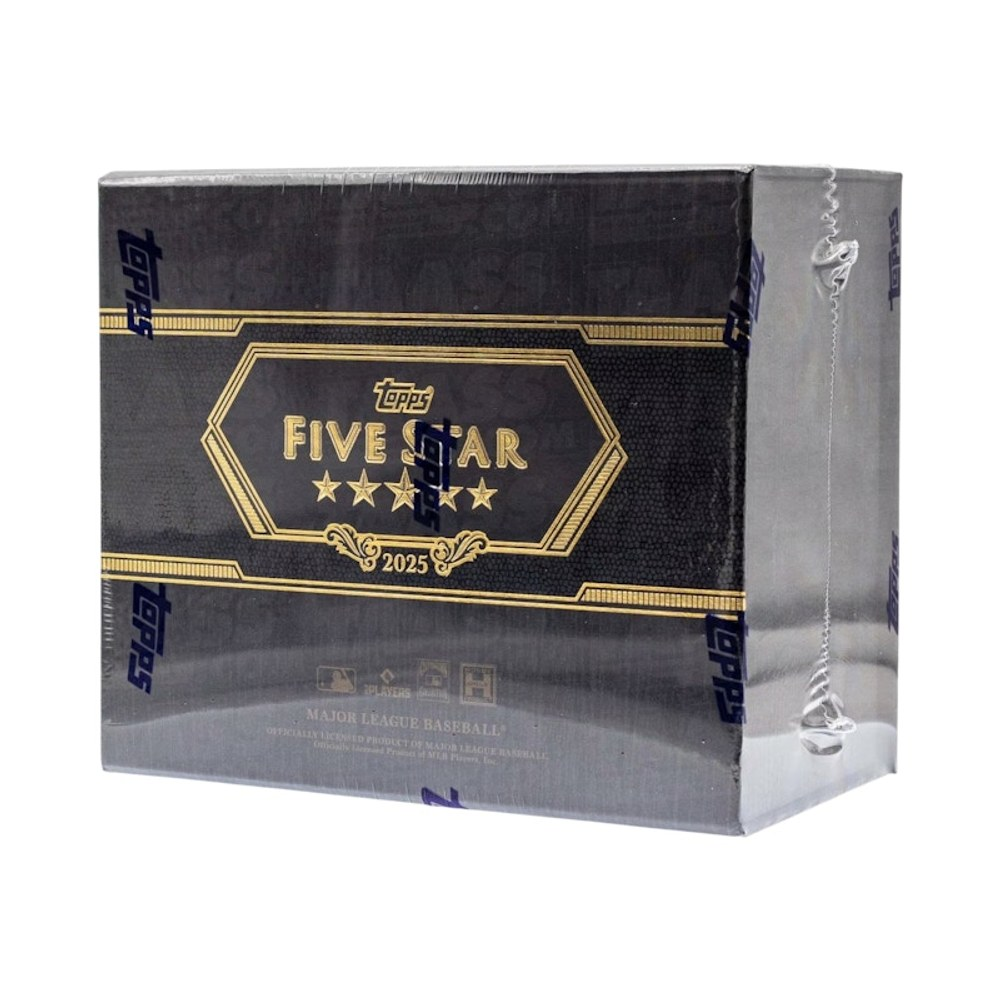
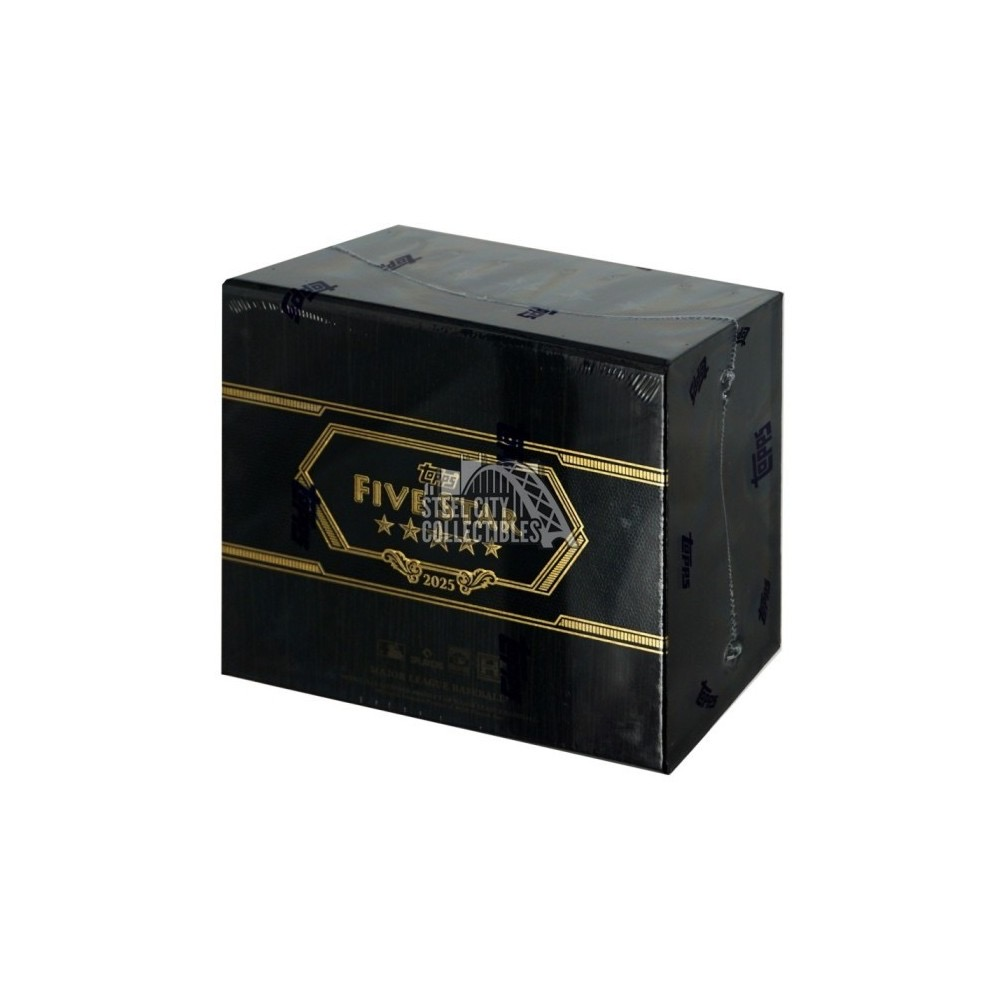
Image fixes + 'Bowman Bowman' title dedup + drop escrow stat
Three things in one round:

1. SIX more product image fixes (via image-research agent):
   - 2025-26-topps-chrome-basketball-blaster-box.jpg
     Cooper Flagg vertical Chrome blaster, Bing -> bigcommerce
   - 2025-26-topps-chrome-basketball-first-day-issue-hobby-box.jpg
     Beckett FDI box with visible "1st Day Issue" foil seal
   - 2025-26-upper-deck-series-2-hockey-hobby-box.jpg
     Real Series 2 Young Guns sealed box from checklistinsider
   - 2025-topps-sterling-baseball-hobby-box.jpg
     Real holographic Sterling 2025 box from eBay listing
   - 2025-topps-five-star-baseball-hobby-box.jpg
     Real black/gold Five Star 2025 box from steelcity
   - 2025-topps-chrome-football-blaster-box.jpg
     Real Topps Chrome NFL launch image (was previously the wrong
     product entirely — Bowman Chrome U)

2. "Bowman Bowman" title dedup — when the brand and set name are
   the same (Bowman flagship MLB) the variant-grouped title was
   rendering as "2025 Bowman Bowman MLB". Now strips the duplicate:
   if set === brand OR set startsWith brand + " ", use set as-is.
   Affects collapsed product cards and product-page H1.

3. Drop the "Currently in escrow" stat on the homepage — value
   isn't meaningful at launch with no real GMV. Removed to avoid
   showing a distractingly tiny / dishonest number. Comment in code
   notes how to re-enable once volume is real.

diff --git a/src/app/page.tsx b/src/app/page.tsx
@@ -172,17 +172,14 @@ export default async function Home({
         </section>
       )}
 
-      {/* Stats — also home only. Same reasoning. */}
+      {/* Stats — home only. The "in escrow" tile was removed at launch
+          since the dollar number isn't meaningful with no real GMV
+          flowing yet (showed up as a tiny / dishonest figure). When we
+          have steady volume, paste back a Stat block keyed to
+          stats.escrowUsd. */}
       {showStats && !isBrowseMode && (
         <section className="border-b border-white/5">
-          <div className="mx-auto grid max-w-7xl grid-cols-1 gap-px bg-white/5 sm:grid-cols-3">
-            {stats.escrowUsd !== null && (
-              <Stat
-                k={formatStatMoney(stats.escrowUsd)}
-                v="in escrow"
-                sub="across active orders"
-              />
-            )}
+          <div className="mx-auto grid max-w-7xl grid-cols-1 gap-px bg-white/5 sm:grid-cols-2">
             {stats.sellerCount !== null && (
               <Stat
                 k={`${stats.sellerCount.toLocaleString()}+`}

diff --git a/src/components/product-card.tsx b/src/components/product-card.tsx
@@ -40,8 +40,15 @@ export function ProductCard({
     : `/product/${sku.slug}`;
   // Title: drop the per-variant suffix when collapsed so it reads as
   // "the release" not "this specific box config."
+  // Dedupe brand/set when set name already includes the brand (e.g. set
+  // = "Bowman" with brand = "Bowman" should render as "2025 Bowman MLB",
+  // not "2025 Bowman Bowman MLB").
+  const setLabel =
+    sku.set === sku.brand || sku.set.startsWith(`${sku.brand} `)
+      ? sku.set
+      : `${sku.brand} ${sku.set}`;
   const title = isMultiVariant
-    ? `${sku.year} ${sku.brand} ${sku.set} ${(sku.sport as string) === "Pokemon" ? "TCG" : sku.sport}`
+    ? `${sku.year} ${setLabel} ${(sku.sport as string) === "Pokemon" ? "TCG" : sku.sport}`
     : formatSkuTitle(sku);
 
   return (

diff --git a/src/app/product/[slug]/page.tsx b/src/app/product/[slug]/page.tsx
@@ -39,7 +39,12 @@ import type { Metadata } from "next";
  * the page. Falls back to the full SKU title if there's only one variant.
  */
 function groupTitle(year: number, brand: string, set: string, sport: string): string {
-  return `${year} ${brand} ${set} ${sport === "Pokemon" ? "TCG" : sport}`;
+  // Dedupe brand/set when set name already includes the brand (e.g. set
+  // "Bowman" with brand "Bowman" should render as "2025 Bowman MLB", not
+  // "2025 Bowman Bowman MLB").
+  const setLabel =
+    set === brand || set.startsWith(`${brand} `) ? set : `${brand} ${set}`;
+  return `${year} ${setLabel} ${sport === "Pokemon" ? "TCG" : sport}`;
 }
 
 export async function generateMetadata({
